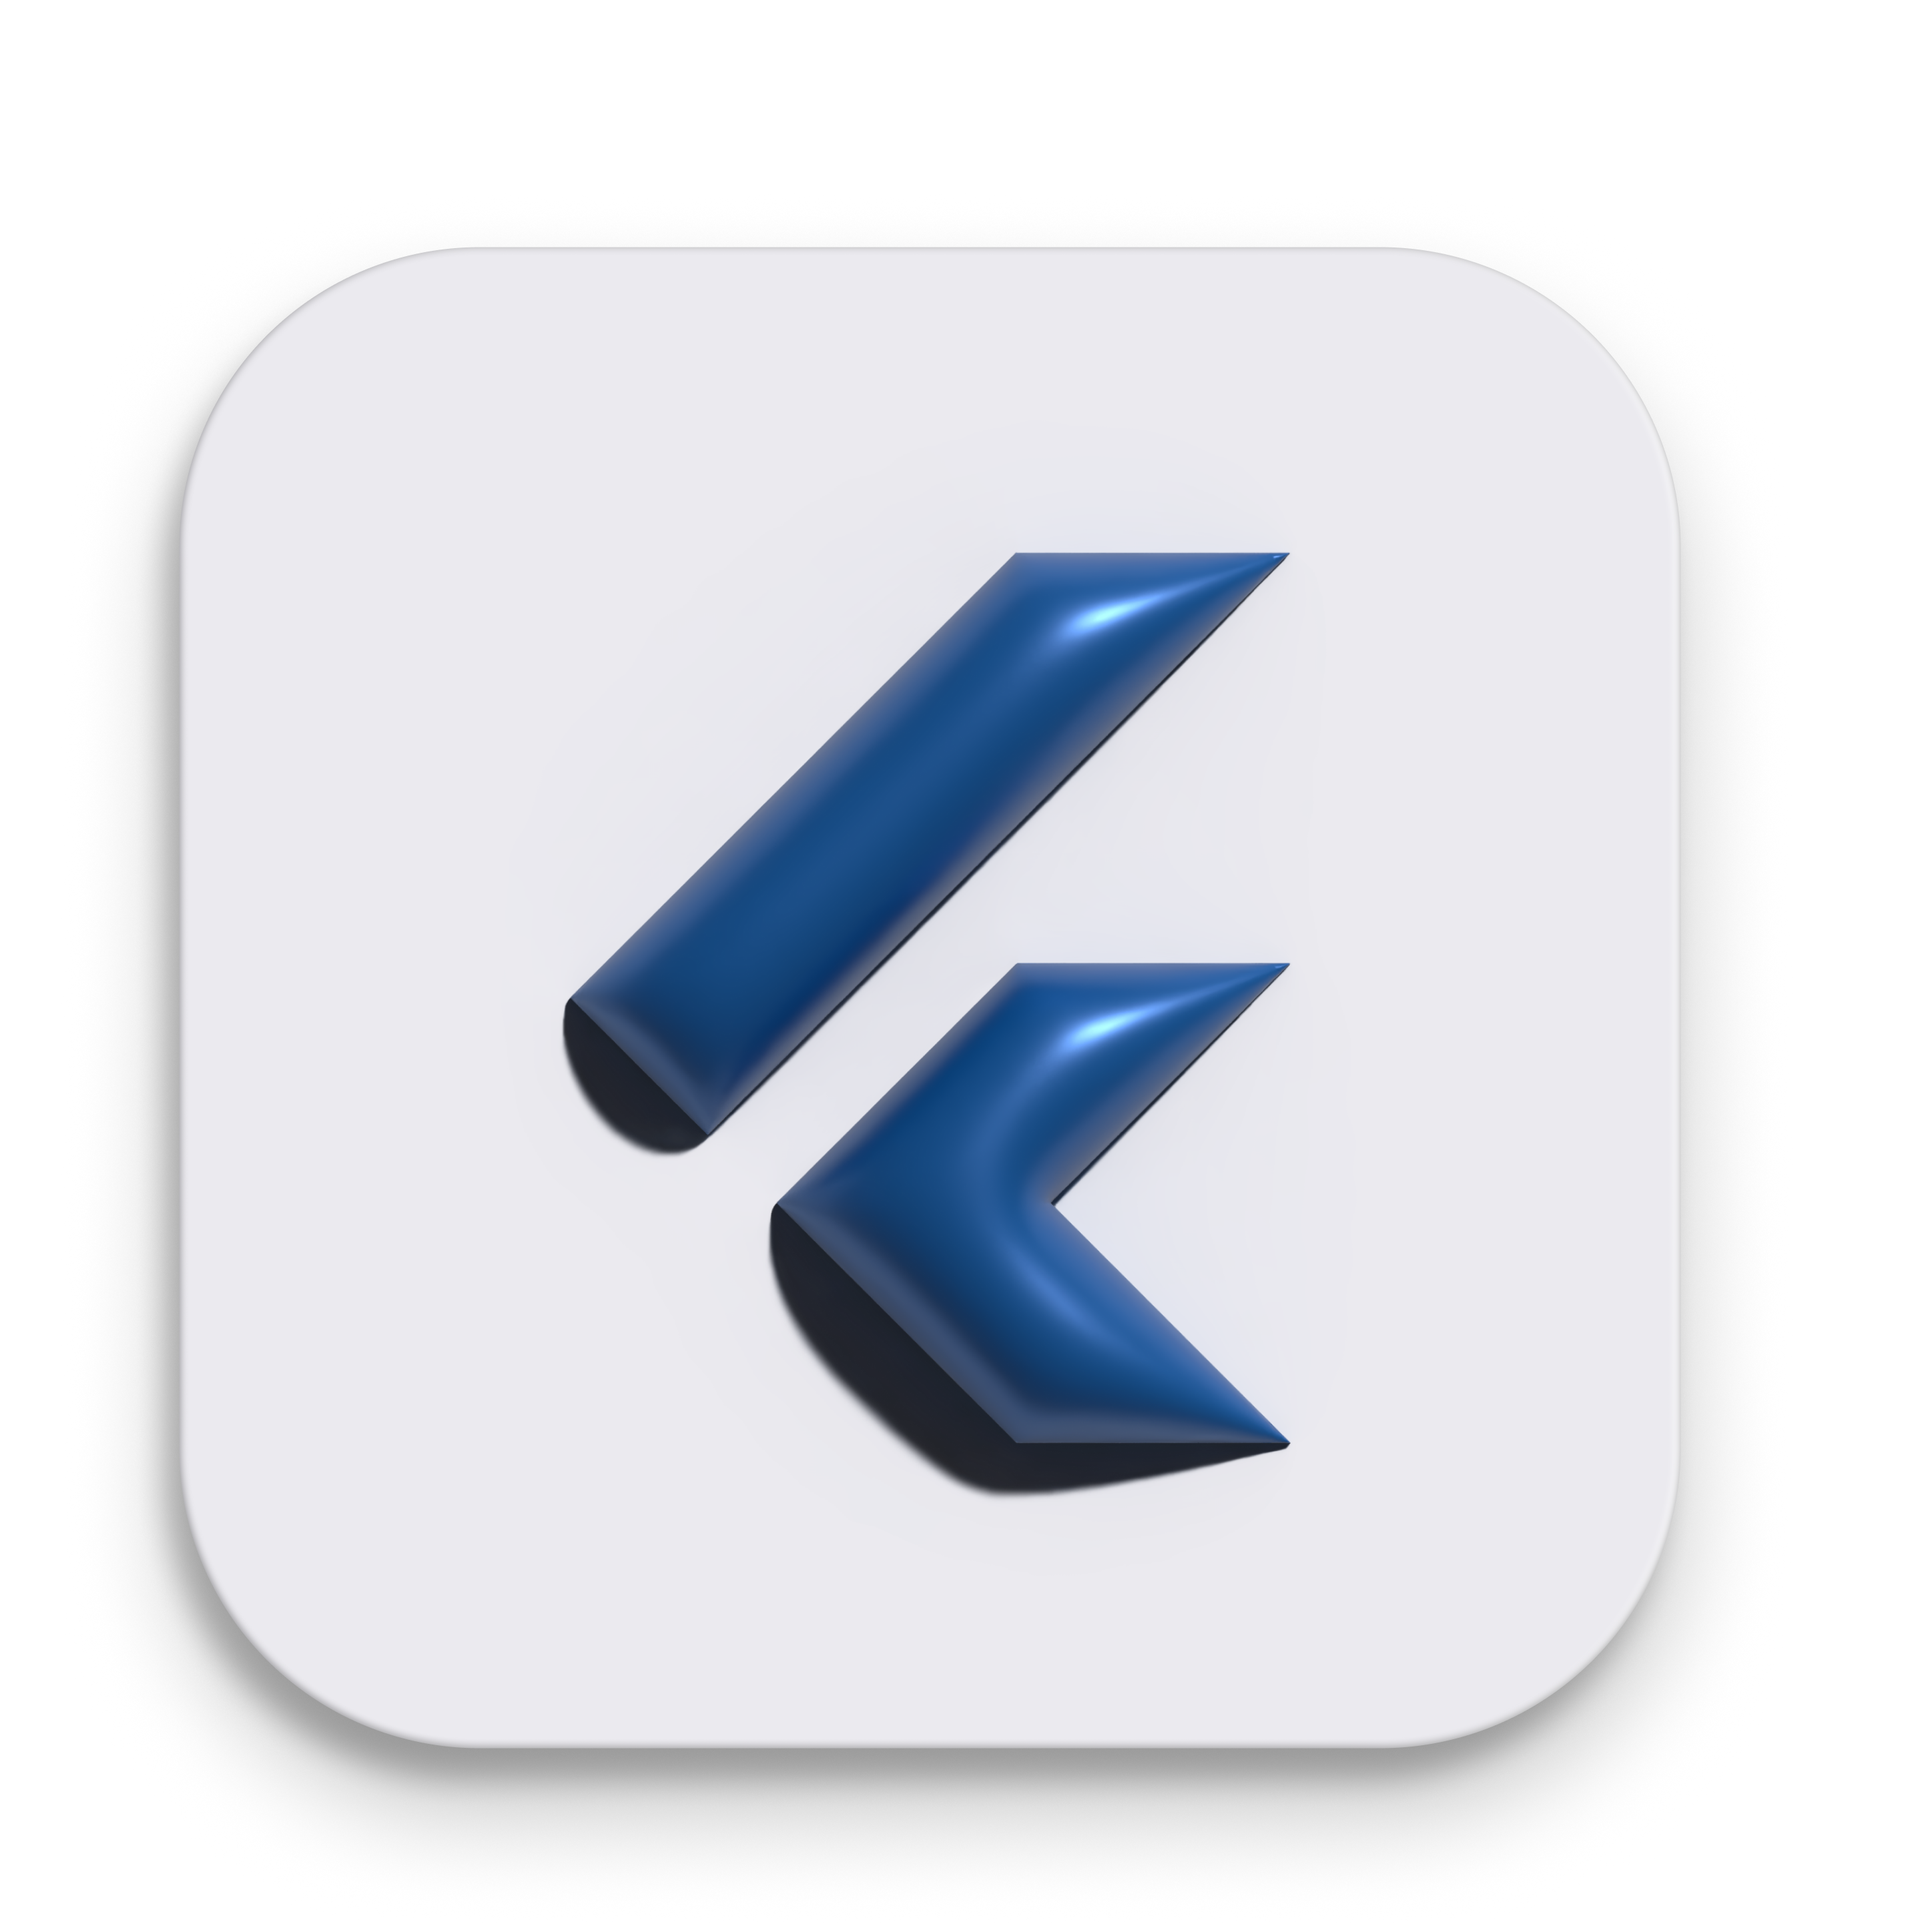
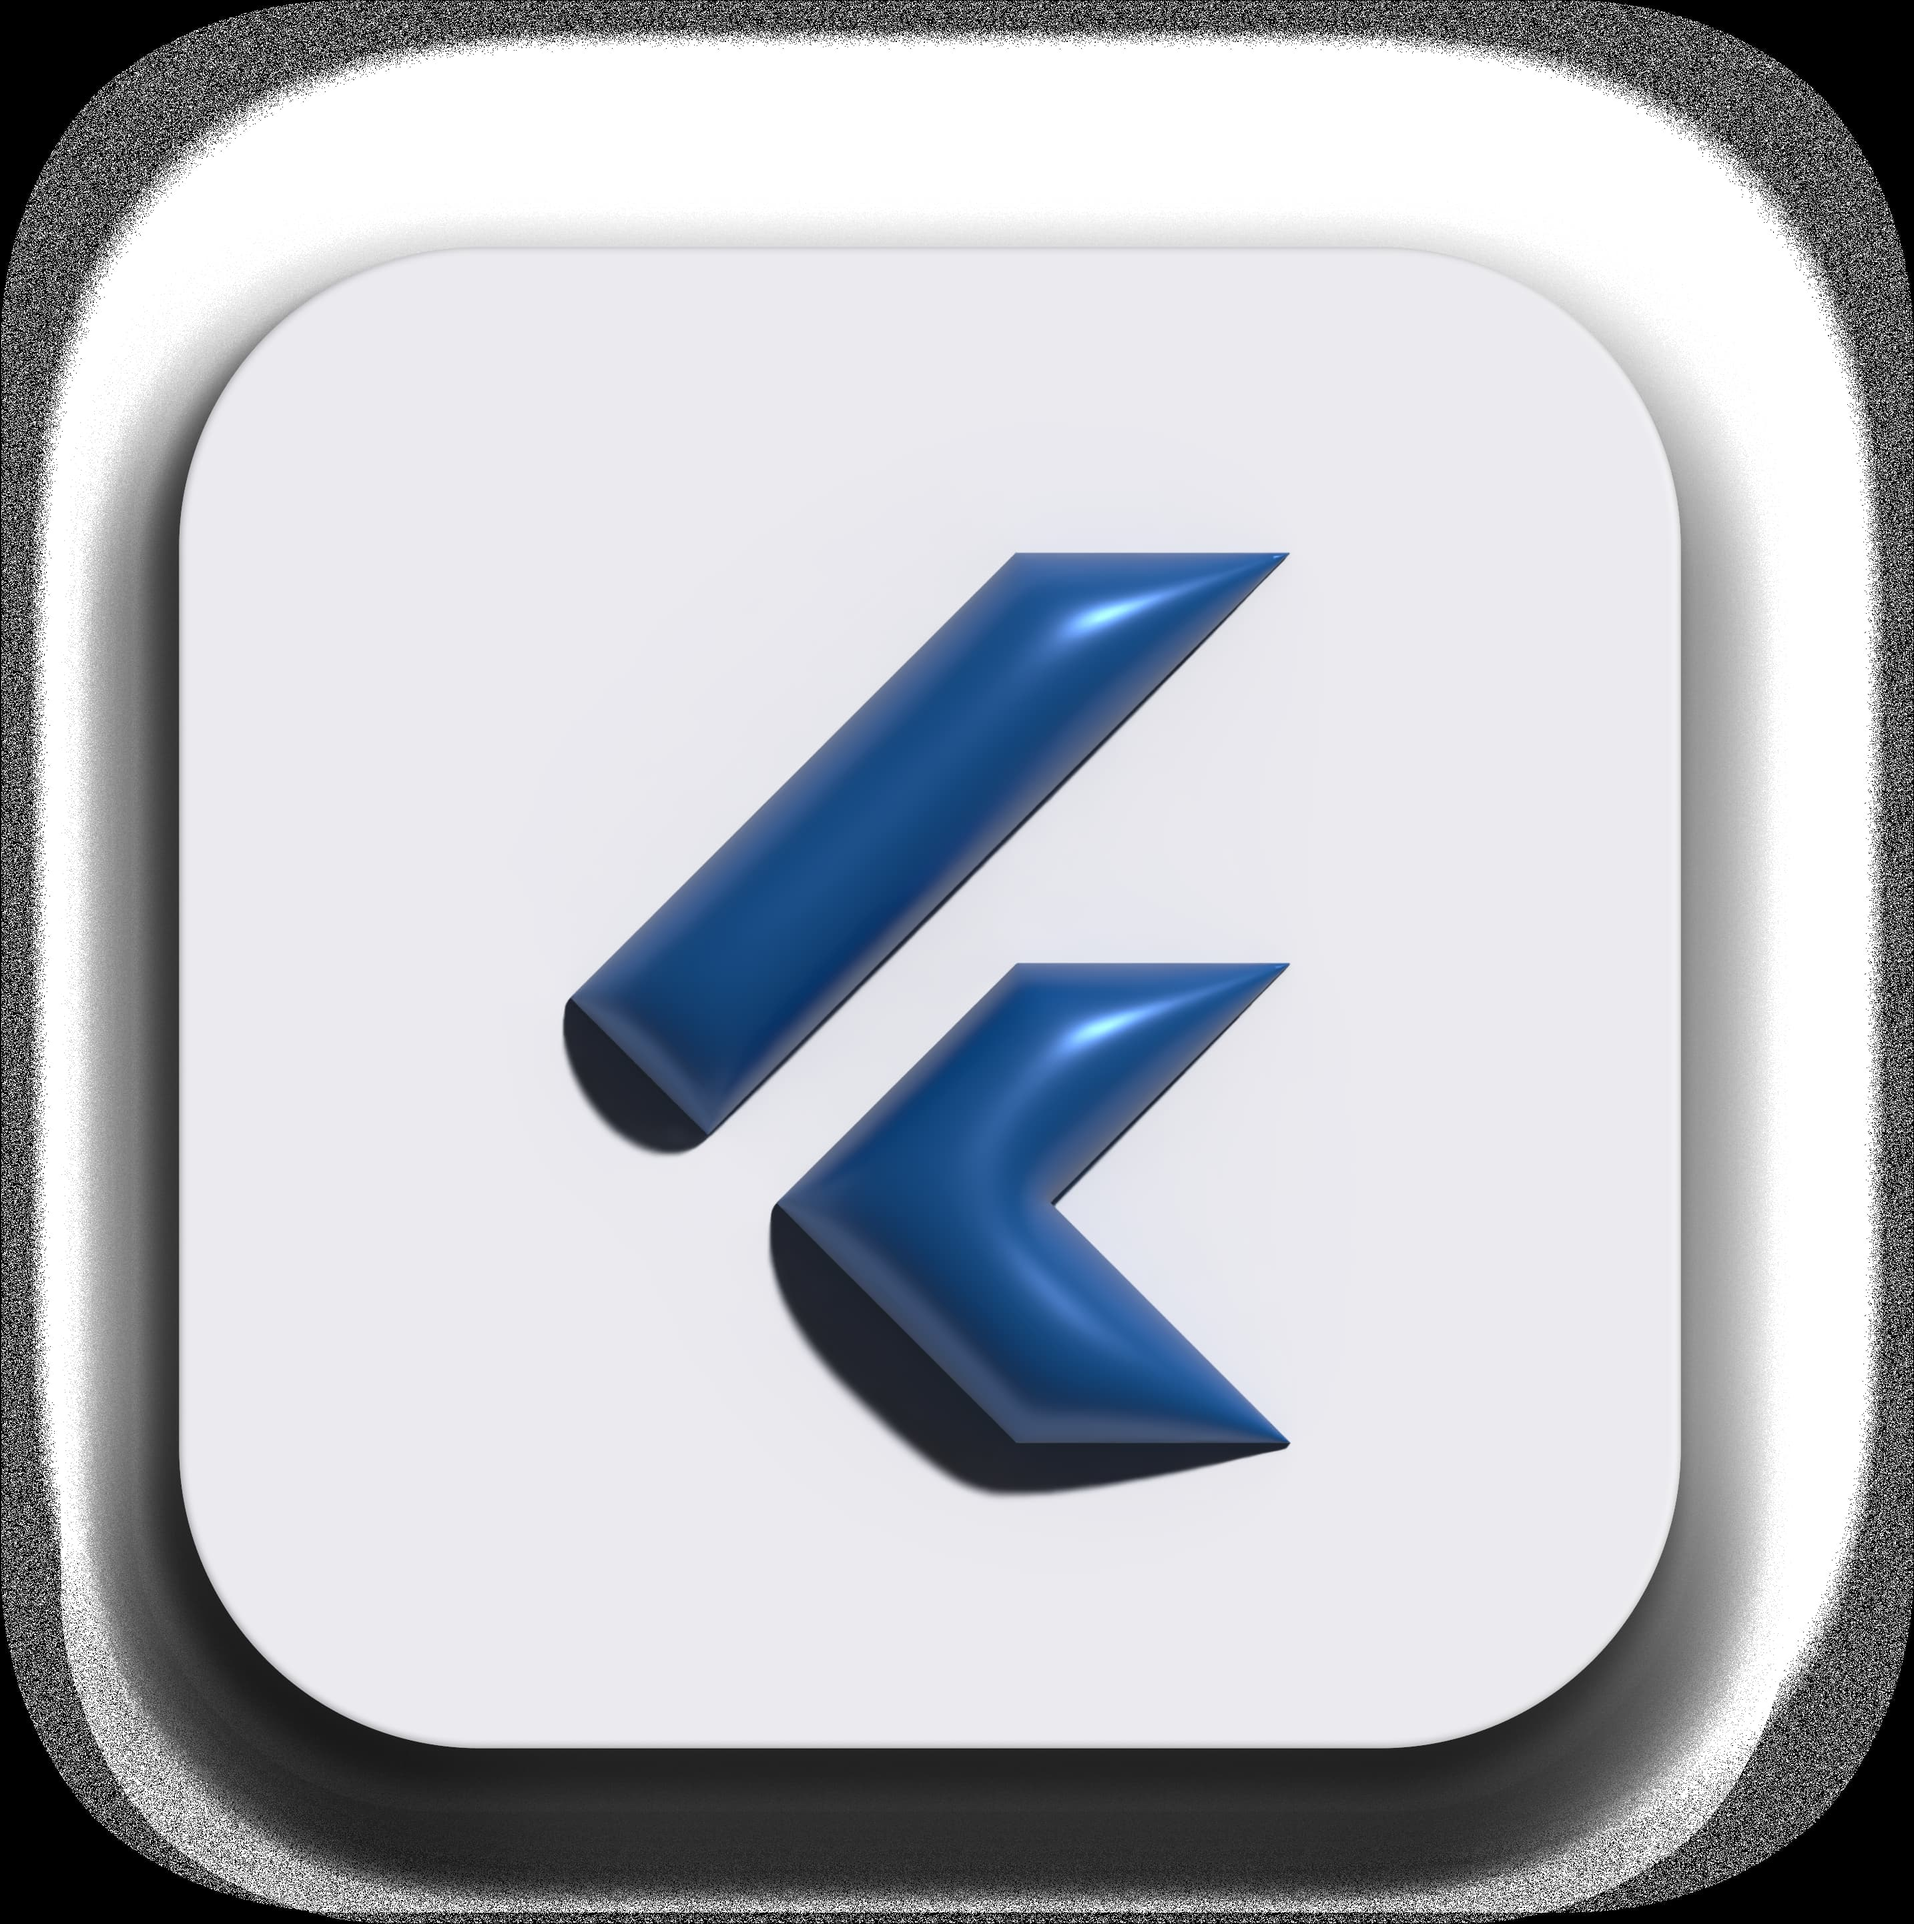
reduced the image quality

diff --git a/index.html b/index.html
@@ -2,7 +2,15 @@
 <html lang="en">
   <head>
     <meta charset="UTF-8" />
-    <link rel="icon" type="image/svg+xml" href="/vite.svg" />
+
+    <!-- Favicons -->
+    <link rel="apple-touch-icon" sizes="180x180" href="/apple-touch-icon.png" />
+    <link rel="icon" type="image/png" sizes="32x32" href="/favicon-32x32.png" />
+    <link rel="icon" type="image/png" sizes="16x16" href="/favicon-16x16.png" />
+    <link rel="manifest" href="/site.webmanifest" />
+    <link rel="shortcut icon" href="/favicon.ico" type="image/x-icon" />
+
+    <!-- Page info -->
     <meta name="viewport" content="width=device-width, initial-scale=1.0" />
     <title>Jeremiah Austine</title>
   </head>
